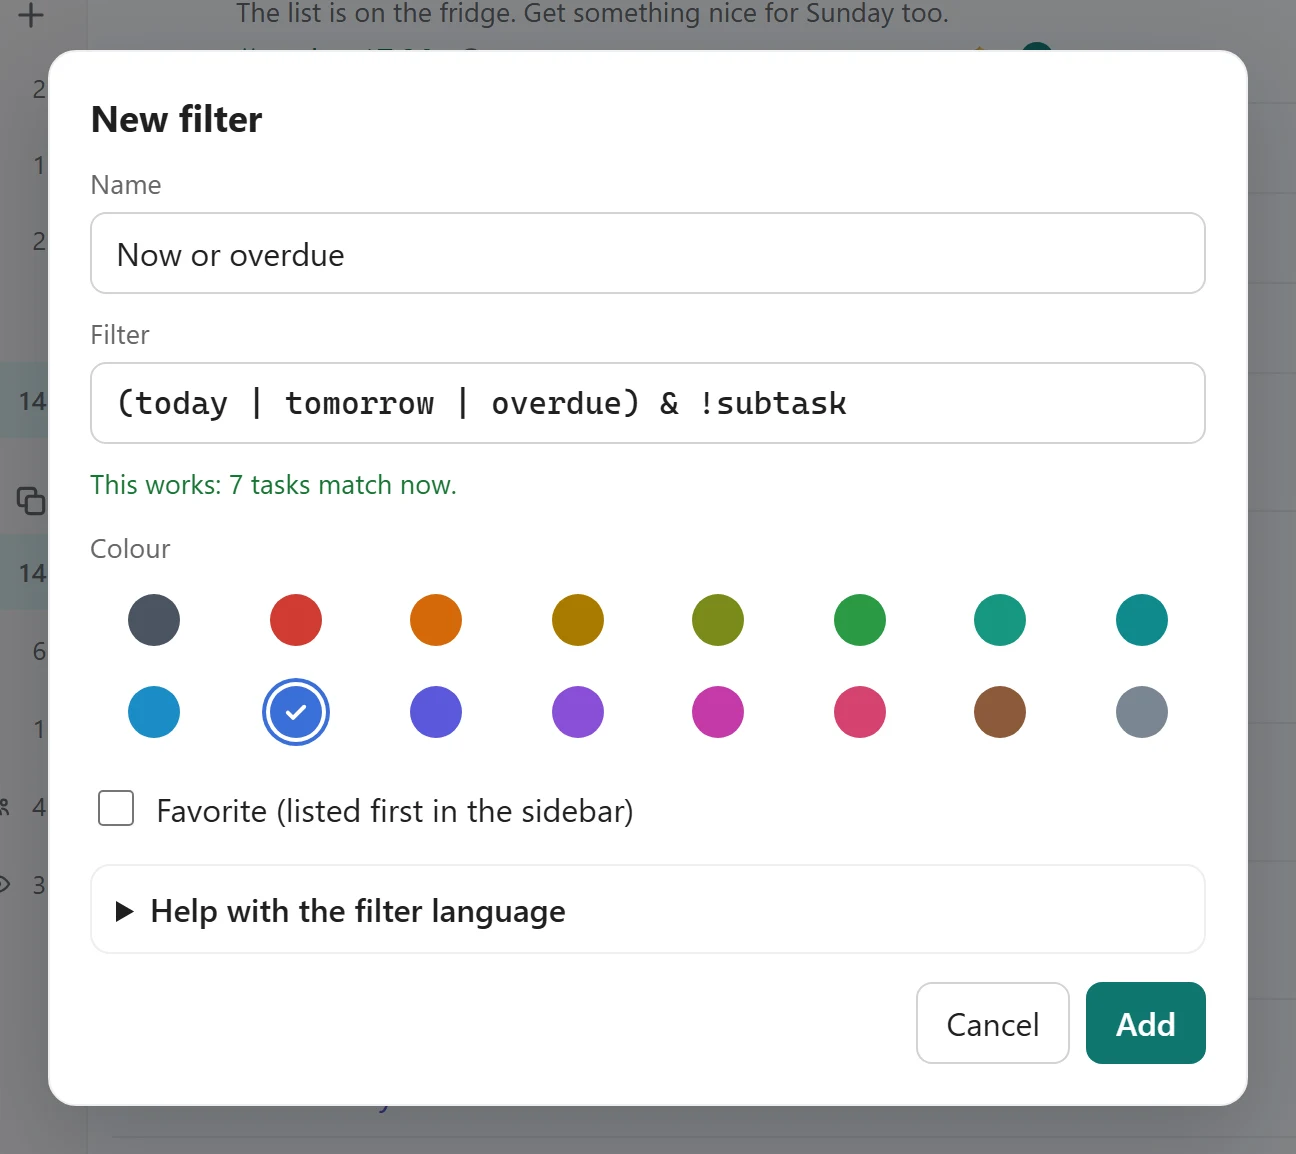
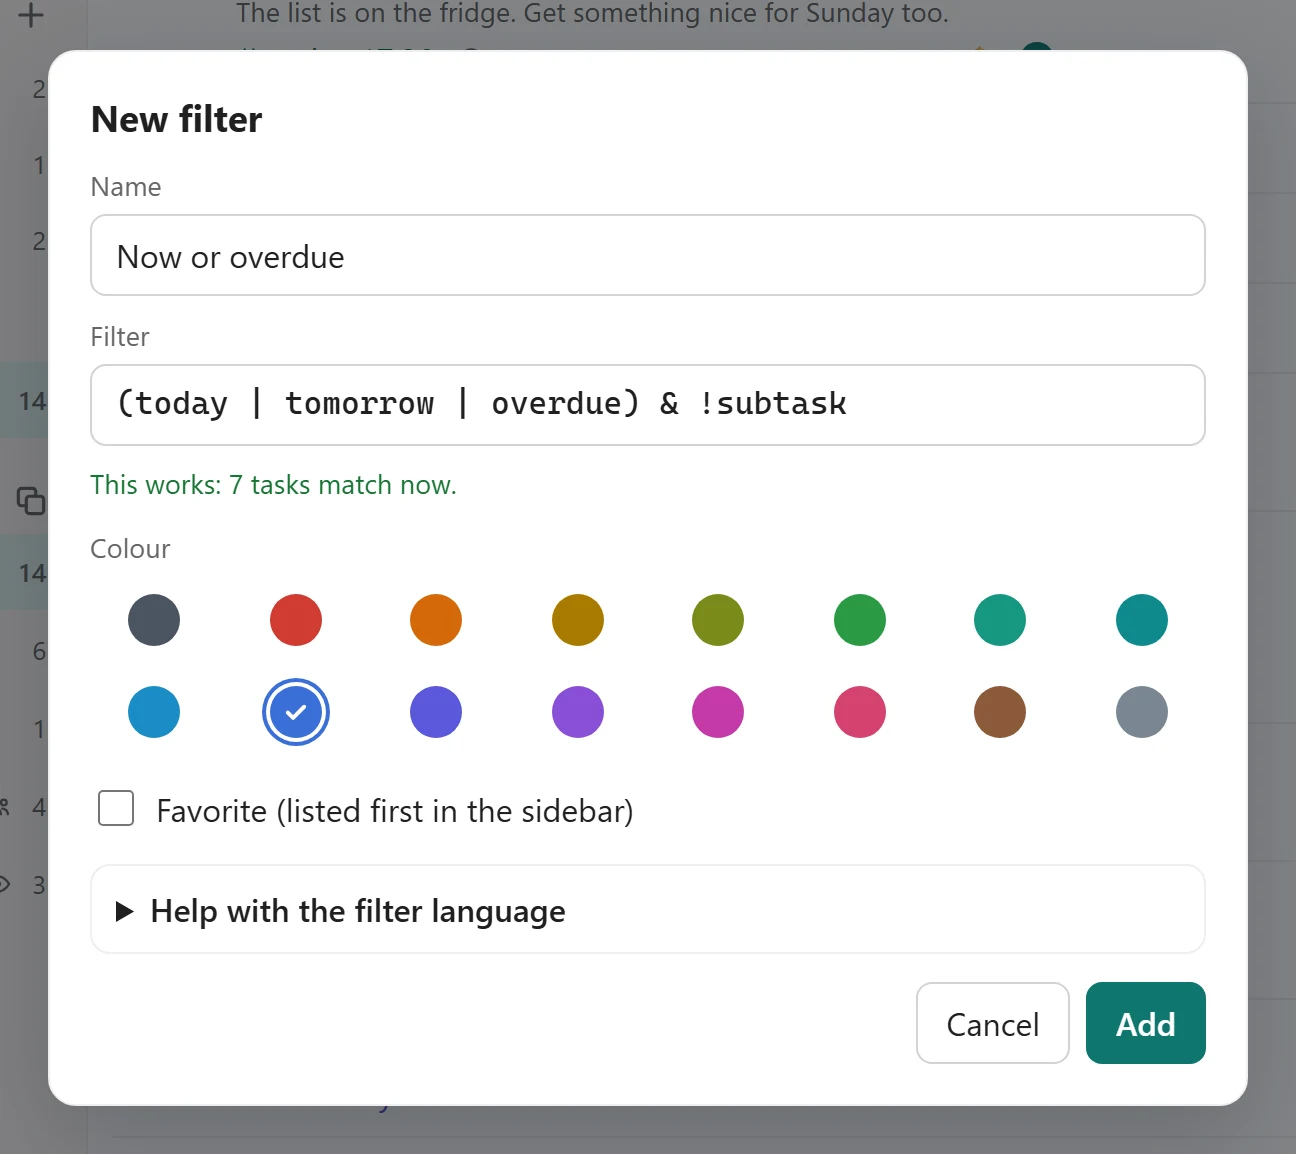
Versie 0.10.5: werkt ook via http op een IP-adres; de balk zegt waar een taak terechtkomt
- toevoegen, verwijderen en elke andere wijziging mislukten stil als Tickory via http op een ander adres dan
  localhost werd geopend: crypto.randomUUID bestaat daar niet; nu een eigen uuid met crypto.getRandomValues
- de balk Taak toevoegen: in een label krijgt de taak dat label; staat de nieuwe taak niet in de lijst die je ziet
  (een filter, Aankomend zonder datum, een later moment, een ander project), dan zegt een melding waar ze is, met Bekijken
- schermafbeeldingen opnieuw gemaakt

Changed region(s): [[0.0926, 0.2184, 0.9259, 0.3432], [0.0926, 0.3744, 0.9259, 0.4055], [0.0617, 0.156, 0.8951, 0.1872]]

diff --git a/scripts/e2e-quick.ts b/scripts/e2e-quick.ts
@@ -204,7 +204,88 @@ export async function quickScenario(c: any) {
   await waitFor(`!document.querySelector('dialog[open]')`, 'alles dicht');
   step(`taak dupliceren via ⋯: een kopie direct onder het origineel met de open subtaak (niet de afgevinkte), ongedaan te maken; link kopiëren (${shown ? 'als tekst om zelf te kopiëren' : 'naar het klembord'})`);
 
+  // ---- de balk: http op een ander adres dan localhost (geen crypto.randomUUID), Aankomend, een label en een filter ----
+  const toastText = () => evaluate<string>(`[...document.querySelectorAll('.toast .toast-text')].map((e) => e.textContent).join(' | ')`);
+  const closeToasts = () => evaluate(`document.querySelectorAll('.toast .toast-close').forEach((b) => b.click())`);
+  const barAdd = async (text: string) => {
+    await evaluate(`(() => { const i = document.getElementById('quick-input'); i.value = ${js(text)}; i.dispatchEvent(new Event('input', { bubbles: true })); })()`);
+    await evaluate(`document.getElementById('quick-add').requestSubmit()`);
+    await waitFor(`document.getElementById('quick-input').value === ''`, 'de balk weer leeg');
+  };
+  const onServer = (content: string) => (serverState().tasks as any[]).find((x) => x.content === content && !x.is_deleted);
+  const shownHere = (content: string) => evaluate<boolean>(`[...document.querySelectorAll('#content li.task .task-title')].some((e) => e.textContent === ${js(content)})`);
+
+  // zonder crypto.randomUUID, zoals in een onveilige context (http://100.x.y.z:3035): toevoegen en verwijderen werken toch
+  await evaluate(`(() => { window.__realRandomUUID = Object.getOwnPropertyDescriptor(Crypto.prototype, 'randomUUID'); Object.defineProperty(Crypto.prototype, 'randomUUID', { value: undefined, configurable: true, writable: true }); })()`);
+  assert.equal(await evaluate(`typeof crypto.randomUUID`), 'undefined');
+  await nav('Inbox');
+  await barAdd('Zonder randomUUID');
+  await waitFor(`[...document.querySelectorAll('#content li.task .task-title')].some((e) => e.textContent === 'Zonder randomUUID')`, 'de taak in de Inbox');
+  await waitFor(`await ${SYNCED}`, 'gesynchroniseerd');
+  const noUuid = onServer('Zonder randomUUID');
+  assert.ok(noUuid, 'ook op de server');
+  const noUuidRow = `[...document.querySelectorAll('li.task')].find((l) => l.querySelector('.task-title').textContent === 'Zonder randomUUID')`;
+  await evaluate(`(() => { ${noUuidRow}.dispatchEvent(new MouseEvent('mouseover', { bubbles: true })); return true; })()`);
+  await evaluate(`${noUuidRow}.querySelector('[data-act="delete"]').click()`);
+  await waitFor(`document.querySelector('dialog[open] h2')?.textContent === 'Taak verwijderen?'`, 'de bevestiging');
+  await evaluate(`[...document.querySelectorAll('dialog[open] button')].find((b) => b.textContent === 'Verwijderen').click()`);
+  await waitFor(`![...document.querySelectorAll('#content li.task .task-title')].some((e) => e.textContent === 'Zonder randomUUID')`, 'de taak weg');
+  await waitFor(`await ${SYNCED}`, 'gesynchroniseerd');
+  assert.equal(onServer('Zonder randomUUID'), undefined, 'ook op de server verwijderd');
+  await evaluate(`(() => { Object.defineProperty(Crypto.prototype, 'randomUUID', window.__realRandomUUID); return true; })()`);
+  assert.equal(await evaluate(`typeof crypto.randomUUID`), 'function', 'weer terug voor de rest van de test');
+  await closeToasts();
+  step('zonder crypto.randomUUID (Tickory via http op een IP-adres): een taak toevoegen met de balk en verwijderen werkt, ook op de server');
+
+  // Aankomend (vanaf morgen): zonder datum komt de taak in de Inbox, en dat zegt een melding; met "morgen" staat ze er gewoon
+  await nav('Aankomend');
+  await waitFor(`document.getElementById('view-title').textContent === 'Aankomend'`, 'Aankomend');
+  await barAdd('Balk in Aankomend');
+  await waitFor(`document.querySelector('.toast .toast-text')?.textContent === 'Toegevoegd aan Inbox; de taak staat niet in deze lijst.'`, 'de melding in Aankomend');
+  await waitFor(`await ${SYNCED}`, 'gesynchroniseerd');
+  assert.equal(onServer('Balk in Aankomend')?.due ?? null, null, 'zonder datum');
+  await closeToasts();
+  await barAdd('Balktaak morgen');
+  await waitFor(`[...document.querySelectorAll('#content li.task .task-title')].some((e) => e.textContent === 'Balktaak')`, 'de taak voor morgen in Aankomend');
+  await new Promise((r) => setTimeout(r, 200));
+  assert.equal(await toastText(), '', 'geen melding: de taak staat in de lijst');
+
+  // een label: de taak krijgt het label
+  await evaluate(`document.querySelector('[data-fk="find-head:labels"]').click()`);
+  await waitFor(`document.querySelector('[data-fk="label-row:e2esnellabel0001"]')`, 'de pagina Labels');
+  await evaluate(`document.querySelector('[data-fk="label-row:e2esnellabel0001"]').click()`);
+  await waitFor(`document.getElementById('view-title').textContent.includes('snelproeflabel')`, 'het label');
+  await barAdd('Balk in een label');
+  await waitFor(`[...document.querySelectorAll('#content li.task .task-title')].some((e) => e.textContent === 'Balk in een label')`, 'de taak bij het label');
+  await waitFor(`await ${SYNCED}`, 'gesynchroniseerd');
+  assert.deepEqual(onServer('Balk in een label')?.labels, ['e2esnellabel0001']);
+
+  // een filter waar de taak niet in valt: een melding waar ze is, en Bekijken opent haar
+  await as([['filter_add', { id: 'e2esnelfilter001', name: 'Snelproeffilter', query: 'p1' }]]);
+  await waitFor(`await ${SYNCED}`, 'gesynchroniseerd');
+  await evaluate(`document.querySelector('[data-fk="find-head:filters"]').click()`);
+  await waitFor(`document.querySelector('[data-fk="filter-row:e2esnelfilter001"]')`, 'de pagina Filters');
+  await evaluate(`document.querySelector('[data-fk="filter-row:e2esnelfilter001"]').click()`);
+  await waitFor(`document.getElementById('view-title').textContent === 'Snelproeffilter'`, 'het filter');
+  await barAdd('Balk in een filter');
+  await waitFor(`document.querySelector('.toast .toast-text')?.textContent === 'Toegevoegd aan Inbox; de taak staat niet in deze lijst.'`, 'de melding waar de taak is');
+  assert.equal(await shownHere('Balk in een filter'), false);
+  await evaluate(`[...document.querySelectorAll('.toast button')].find((b) => b.textContent === 'Bekijken').click()`);
+  await waitFor(`document.querySelector('#task-dialog')`, 'het taakvenster van de nieuwe taak');
+  await evaluate(`document.querySelector('#task-dialog')?.close()`);
+  await waitFor(`!document.querySelector('dialog[open]')`, 'dicht');
+  // een taak met p1 valt wel in het filter: geen melding
+  await closeToasts();
+  await barAdd('Balk in een filter p1');
+  await waitFor(`[...document.querySelectorAll('#content li.task .task-title')].some((e) => e.textContent === 'Balk in een filter')`, 'de taak met p1 in het filter');
+  await new Promise((r) => setTimeout(r, 200));
+  assert.equal(await toastText(), '', 'geen melding als de taak in de lijst staat');
+  await waitFor(`await ${SYNCED}`, 'gesynchroniseerd');
+  step('de balk: in Aankomend zonder datum een melding (met morgen gewoon in de lijst), in een label met dat label, en in een filter waar de taak niet in valt een melding "Toegevoegd aan Inbox" met Bekijken');
+
   // ---- opruimen ----
+  const barTasks = (serverState().tasks as any[]).filter((x) => !x.is_deleted && x.content.startsWith('Balk'));
+  await as([...barTasks.map((x) => ['task_delete', { id: x.id }] as [string, object]), ['filter_delete', { id: 'e2esnelfilter001' }]]);
   await as([['task_delete', { id: 'e2edupliceer0001' }]]);
   await as([...pasted.map((x) => ['task_delete', { id: x.id }] as [string, object]), ['project_delete', { id: 'e2esnelproject01' }], ['label_delete', { id: 'e2esnellabel0001' }]]);
   await nav(startView);

diff --git a/client/ui/app.js b/client/ui/app.js
@@ -261,7 +261,24 @@ function quickContext() {
   if (ui.route.type === 'project' && store.view.projects.has(ui.route.id) && canAddTo(ui.route.id)) return { defaultProjectId: ui.route.id, canAddTo, dates };
   // `string` en `lang` horen bij de datumtaal (wat de herkenner leest), niet bij de taal van de interface: die blijven Nederlands.
   if (ui.route.type === 'today') return { defaultProjectId: inboxId(), defaultDue: { date: todayString(), string: 'vandaag', lang: 'nl' }, canAddTo, dates };
+  // bij een label: de taak krijgt dat label (in de Inbox), zodat ze in deze lijst staat
+  if (ui.route.type === 'label' && store.view.labels.has(ui.route.id)) return { defaultProjectId: inboxId(), defaultLabels: [ui.route.id], canAddTo, dates };
   return { defaultProjectId: inboxId(), canAddTo, dates };
+}
+
+/**
+ * Na snel toevoegen in de balk: staat de nieuwe taak niet in de lijst die je ziet (een filter, een datum later dan vandaag, een ander
+ * #project, of een kalender zonder datum), dan zegt een melding waar ze is, met een knop om de taak te openen. Zo verdwijnt er nooit
+ * stilletjes een taak.
+ */
+function showWhereAdded(id) {
+  const check = () => {
+    const task = store.view.tasks.get(id);
+    if (!task || document.querySelector(`#content [data-id="${CSS.escape(id)}"]`)) return;
+    const where = store.view.projects.get(task.project_id)?.name ?? t('bottomNav.inbox');
+    toast(t('quick.addedTo', { where }), { action: { label: t('quick.showTask'), run: () => openTaskById(id) } });
+  };
+  requestAnimationFrame(() => requestAnimationFrame(check)); // na het tekenen (invalidate tekent in het volgende beeld)
 }
 
 function renderPreview() {
@@ -284,7 +301,8 @@ async function submitQuickAdd(e) {
   }
   input.value = '';
   renderPreview();
-  await actions.addTask(p);
+  const id = await actions.addTask(p);
+  if (id) showWhereAdded(id);
 }
 
 // ---------- handelingen ----------

diff --git a/client/core/random.test.js b/client/core/random.test.js
@@ -1,0 +1,23 @@
+import { test } from 'node:test';
+import assert from 'node:assert/strict';
+import { randomUuid } from './random.js';
+
+test('randomUuid: een uuid versie 4, elke keer een ander, ook zonder crypto.randomUUID (http op een ander adres dan localhost)', () => {
+  const re = /^[0-9a-f]{8}-[0-9a-f]{4}-4[0-9a-f]{3}-[89ab][0-9a-f]{3}-[0-9a-f]{12}$/;
+  const a = randomUuid();
+  assert.match(a, re);
+  assert.notEqual(a, randomUuid());
+  assert.equal(randomUuid(() => new Uint8Array(16).fill(0xff)), 'ffffffff-ffff-4fff-bfff-ffffffffffff');
+  assert.equal(randomUuid(() => new Uint8Array(16)), '00000000-0000-4000-8000-000000000000');
+
+  // zoals in een onveilige context: randomUUID ontbreekt, getRandomValues niet
+  const original = Object.getOwnPropertyDescriptor(crypto, 'randomUUID') ?? Object.getOwnPropertyDescriptor(Object.getPrototypeOf(crypto), 'randomUUID');
+  const proto = Object.getOwnPropertyDescriptor(crypto, 'randomUUID') ? crypto : Object.getPrototypeOf(crypto);
+  Object.defineProperty(proto, 'randomUUID', { value: undefined, configurable: true, writable: true });
+  try {
+    assert.equal(typeof crypto.randomUUID, 'undefined');
+    assert.match(randomUuid(), re);
+  } finally {
+    Object.defineProperty(proto, 'randomUUID', original);
+  }
+});

diff --git a/client/core/actions.js b/client/core/actions.js
@@ -14,6 +14,7 @@ import { projectDescendantIds } from './selectors.js';
 import { cleanFileName } from '../../shared/attachments.js';
 import { projectMoveCommands, taskMoveCommands } from './dnd.js';
 import { inverseCommands } from './inverse.js';
+import { randomUuid } from './random.js';
 import { labelNamesOf, planTemplate, quotaProblem } from './templates.js';
 import { importQuotaProblem, planImport } from './importPlan.js';
 
@@ -33,7 +34,7 @@ const byOrder = (a, b) => (a.order_key < b.order_key ? -1 : a.order_key > b.orde
  * @param {import('./store.js').Store} store
  * @param {{ requestSync?: () => void, makeId?: () => string, makeUuid?: () => string, undo?: ReturnType<typeof import('./undo.js').createUndo> }} [options]
  */
-export function createActions(store, { requestSync = () => {}, makeId = newId, makeUuid = () => crypto.randomUUID(), undo = null } = {}) {
+export function createActions(store, { requestSync = () => {}, makeId = newId, makeUuid = randomUuid, undo = null } = {}) {
   /** Zolang `track` loopt: de omgekeerde commando's van alles wat er in die tijd wordt verstuurd (zie hieronder). */
   let capture = null;
   const send = async (commands) => {

diff --git a/client/core/views.test.js b/client/core/views.test.js
@@ -94,6 +94,16 @@ test('quick-add: standaarddatum (overzicht Vandaag) geldt tenzij er zelf een dat
   assert.equal(parseQuickAdd('Afwas morgen', ctx(v, { defaultDue: d })).due.date, '2026-11-12');
 });
 
+test('quick-add: een standaardlabel (de balk in een label) komt op de taak, samen met wat je typt, en een onbekend label niet', () => {
+  const { v, put } = sampleView();
+  put('labels', { id: 'l-thuis', name: 'thuis', order_key: 'a' });
+  put('labels', { id: 'l-bellen', name: 'bellen', order_key: 'b' });
+  assert.deepEqual(parseQuickAdd('Lampen ophangen', ctx(v, { defaultLabels: ['l-thuis'] })).labels, ['l-thuis']);
+  assert.deepEqual(parseQuickAdd('Oma bellen @bellen @thuis', ctx(v, { defaultLabels: ['l-thuis'] })).labels, ['l-thuis', 'l-bellen']);
+  assert.deepEqual(parseQuickAdd('Lampen ophangen', ctx(v, { defaultLabels: ['l-weg'] })).labels, []);
+  assert.deepEqual(parseQuickAdd('Lampen ophangen', ctx(v)).labels, [], 'zonder standaard geen labels');
+});
+
 test('quick-add: Nederlandse namen met accenten, hoofdletters en de ontleedde schrijfwijze', () => {
   const { v, put } = sampleView();
   put('projects', { id: 'p-cafe', name: 'Café', order_key: 'n' });

diff --git a/client/core/quickadd.js b/client/core/quickadd.js
@@ -82,9 +82,9 @@ export function findTimeRange(text) {
   return { start: `${String(h1).padStart(2, '0')}:${String(m1 ?? '00').padStart(2, '0')}`, minutes: b - a, index: m.index, length: m[0].length };
 }
 
-export function parseQuickAdd(text, { view, now = new Date(), defaultProjectId, defaultSectionId = null, defaultDue = null, canAddTo = () => true, dates = true, language = getLanguage() }) {
+export function parseQuickAdd(text, { view, now = new Date(), defaultProjectId, defaultSectionId = null, defaultDue = null, defaultLabels = [], canAddTo = () => true, dates = true, language = getLanguage() }) {
   let rest = normalizeText(text).replace(/\s+/g, ' ').trim();
-  const out = { content: '', project_id: defaultProjectId, section_id: defaultSectionId, labels: [], newLabels: [], priority: 4, due: defaultDue, deadline: null, reminders: [] };
+  const out = { content: '', project_id: defaultProjectId, section_id: defaultSectionId, labels: defaultLabels.filter((id) => view.labels.has(id)), newLabels: [], priority: 4, due: defaultDue, deadline: null, reminders: [] };
 
   // prioriteit
   const prio = new RegExp(`${START}(?:p|!!)([1-4])${END}`, 'iu').exec(rest);

diff --git a/client/core/inverse.js b/client/core/inverse.js
@@ -8,6 +8,7 @@
 
 import { ENTITIES } from '../../shared/schema.js';
 import { applyCommand, cloneState, descendantIds } from './reducer.js';
+import { randomUuid } from './random.js';
 
 // de entiteit mag zelf een liggend streepje hebben (note_file_add): de kortste naam die past
 const GENERIC = /^([a-z][a-z_]*?)_(add|update|delete)$/;
@@ -32,7 +33,7 @@ function removedRows(before, after) {
  * @param {{ userId?: string | null, now?: string, makeId?: () => string, makeUuid?: () => string }} [options]
  * @returns {{ type: string, uuid?: string, args: Record<string, any>, local?: object }[] | null} de omgekeerde reeks, of null als iets niet terug kan
  */
-export function inverseCommands(view, commands, { userId = null, now = new Date().toISOString(), makeId = () => crypto.randomUUID().replace(/-/g, '').slice(0, 20), makeUuid } = {}) {
+export function inverseCommands(view, commands, { userId = null, now = new Date().toISOString(), makeId = () => randomUuid().replace(/-/g, '').slice(0, 20), makeUuid } = {}) {
   const state = cloneState(view);
   const parts = [];
   for (const cmd of commands) {

diff --git a/client/core/random.js b/client/core/random.js
@@ -1,0 +1,15 @@
+// Willekeurige uuid's voor commando's, ook waar `crypto.randomUUID()` niet bestaat. Die functie is er alleen in een "veilige context"
+// (https of localhost); wie Tickory opent via http op een ander adres (een thuisnetwerk, Tailscale, een IP-adres) heeft hem niet, en
+// dan mislukte elke wijziging stil. `crypto.getRandomValues` is er wel altijd, en geeft dezelfde willekeur.
+
+/**
+ * Een uuid volgens RFC 4122 versie 4 ("xxxxxxxx-xxxx-4xxx-yxxx-xxxxxxxxxxxx", 36 tekens).
+ * @param {(n: number) => Uint8Array} [randomBytes] alleen voor de tests
+ */
+export function randomUuid(randomBytes = (n) => crypto.getRandomValues(new Uint8Array(n))) {
+  const b = randomBytes(16);
+  b[6] = (b[6] & 0x0f) | 0x40; // versie 4
+  b[8] = (b[8] & 0x3f) | 0x80; // variant 10xx
+  const hex = [...b].map((x) => x.toString(16).padStart(2, '0')).join('');
+  return `${hex.slice(0, 8)}-${hex.slice(8, 12)}-${hex.slice(12, 16)}-${hex.slice(16, 20)}-${hex.slice(20)}`;
+}

diff --git a/client/i18n/nl.js b/client/i18n/nl.js
@@ -47,6 +47,8 @@ export default {
   'quick.suggestCount': { one: '{count} suggestie', other: '{count} suggesties' },
   'quick.pasteTitle': { one: '{count} taak toevoegen?', other: '{count} taken toevoegen?' },
   'quick.pasteOk': { one: '{count} taak toevoegen', other: '{count} taken toevoegen' },
+  'quick.addedTo': 'Toegevoegd aan {where}; de taak staat niet in deze lijst.',
+  'quick.showTask': 'Bekijken',
   'quick.pasteDone': { one: '{count} taak toegevoegd.', other: '{count} taken toegevoegd.' },
   'quick.label': 'Taak toevoegen',
   'quick.noName': '(nog geen naam)',

diff --git a/client/i18n/en.js b/client/i18n/en.js
@@ -53,6 +53,8 @@ export default {
   'quick.suggestCount': { one: '{count} suggestion', other: '{count} suggestions' },
   'quick.pasteTitle': { one: 'Add {count} task?', other: 'Add {count} tasks?' },
   'quick.pasteOk': { one: 'Add {count} task', other: 'Add {count} tasks' },
+  'quick.addedTo': 'Added to {where}; the task is not in this list.',
+  'quick.showTask': 'View',
   'quick.pasteDone': { one: '{count} task added.', other: '{count} tasks added.' },
   'quick.label': 'Add task',
   'quick.noName': '(no name yet)',

diff --git a/client/sw.js b/client/sw.js
@@ -5,7 +5,7 @@
 // Een wijziging in de app is daardoor na de eerstvolgende keer openen actief.
 // Voeg je een bestand toe aan de app, zet het dan in SHELL (een test controleert dat de lijst compleet is).
 
-const CACHE = 'tickory-v148';
+const CACHE = 'tickory-v149';
 const SHELL = [
   '/',
   '/app.css',
@@ -148,6 +148,7 @@ const SHELL = [
   '/core/reminderText.js',
   '/core/places.js',
   '/core/quickadd.js',
+  '/core/random.js',
   '/core/reducer.js',
   '/core/rowModel.js',
   '/core/search.js',
